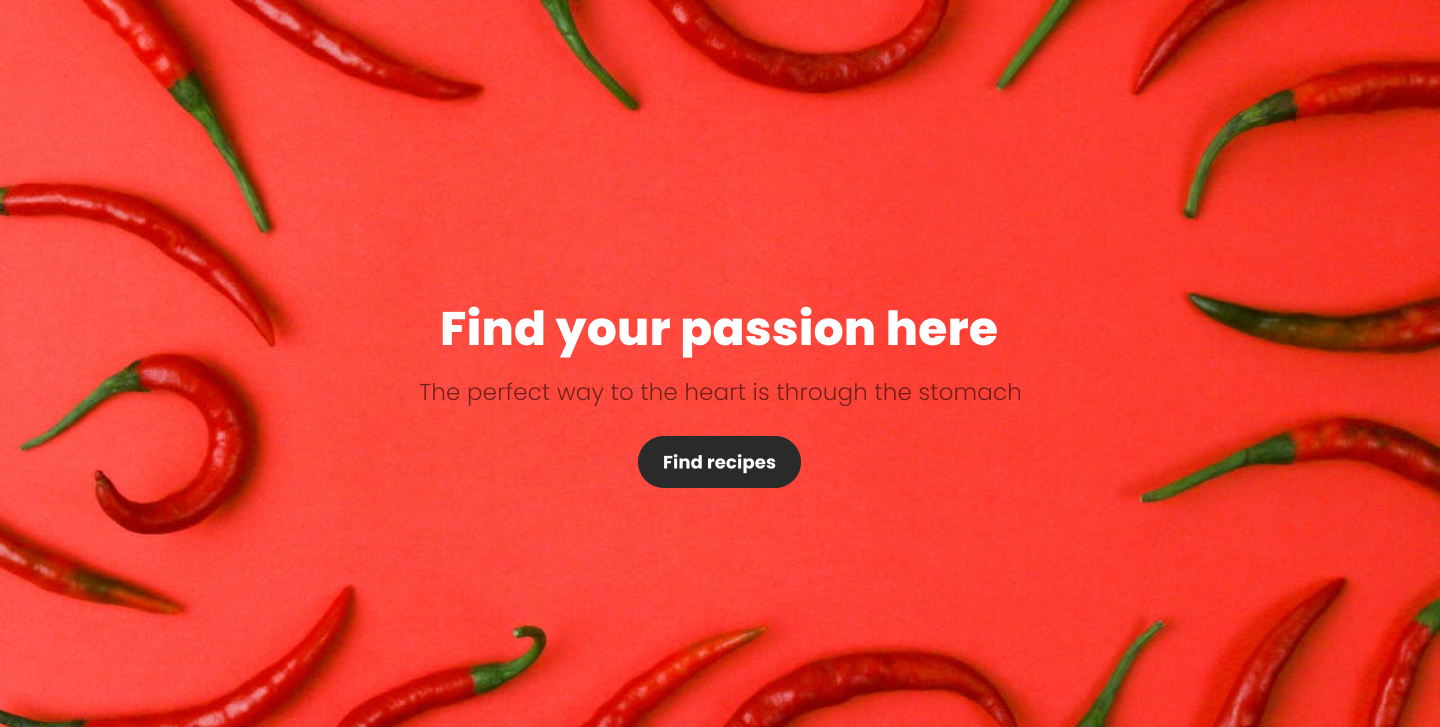
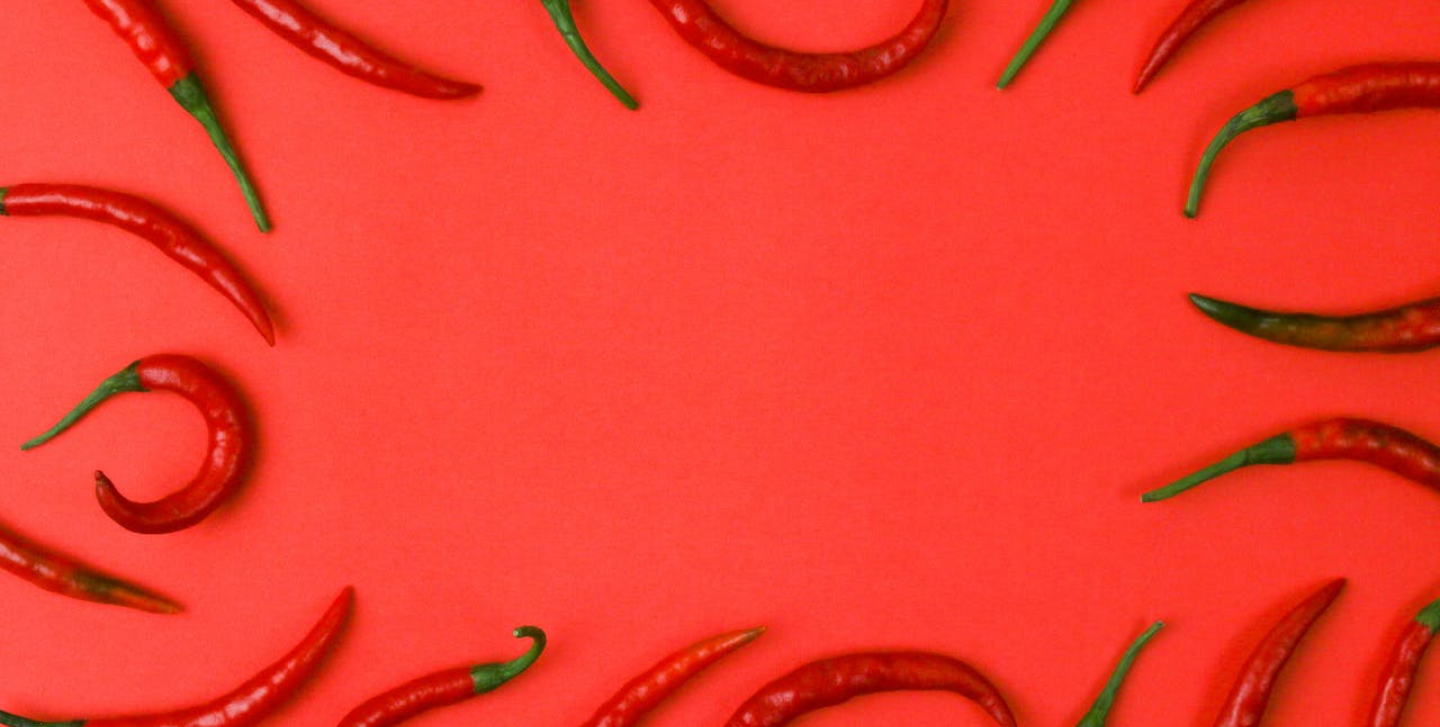
Added hero section to app component

Changed region(s): [[0.2812, 0.4237, 0.6875, 0.4842], [0.2812, 0.5144, 0.7188, 0.575], [0.4375, 0.575, 0.5625, 0.696]]

diff --git a/src/app/app.component.css b/src/app/app.component.css
@@ -67,7 +67,7 @@ header .my-container .contact-div {
 header .my-container .contact-div a {
   font-size: 18px;
   padding: 12px 35px;
-  border-radius: 10px;
+  border-radius: 32px;
   background-color: #ff6464;
   color: #f6f6f6;
   text-decoration: none;
@@ -75,5 +75,45 @@ header .my-container .contact-div a {
   transition: 0.3s ease all;
 }
 header .my-container .contact-div a:hover {
+  background-color: #2a2a2a;
+}
+
+.hero {
+  width: 100%;
+  height: 89vh;
+  margin-bottom: 250px;
+  background-image: url("../assets/images/hero.png");
+  background-position: center;
+  background-size: cover;
+  background-attachment: scroll;
+}
+.hero .hero-text {
+  position: absolute;
+  top: 55%;
+  left: 50%;
+  transform: translate(-50%, -50%);
+  text-align: center;
+}
+.hero .hero-text h2 {
+  color: #f6f6f6;
+  font-size: 47px;
+  font-weight: 800;
+}
+.hero .hero-text p {
+  font-weight: 300;
+  margin-top: 5px;
+  margin-bottom: 25px;
+}
+.hero .hero-text a {
+  font-size: 18px;
+  padding: 12px 35px;
+  border-radius: 32px;
+  background-color: #2a2a2a;
+  color: #f6f6f6;
+  text-decoration: none;
+  font-weight: 700;
+  transition: 0.3s ease all;
+}
+.hero .hero-text a:hover {
   background-color: #2a2a2a;
 }/*# sourceMappingURL=app.component.css.map */

diff --git a/src/app/app.component.scss b/src/app/app.component.scss
@@ -76,7 +76,7 @@ header {
       a {
         font-size: 18px;
         padding: 12px 35px;
-        border-radius: 10px;
+        border-radius: 32px;
         background-color: $red;
         color: $white;
         text-decoration: none;
@@ -85,6 +85,49 @@ header {
         &:hover {
           background-color: $black;
         }
+      }
+    }
+  }
+}
+
+.hero {
+  width: 100%;
+  height: 89vh;
+  margin-bottom: 250px;
+
+  background-image: url("../assets/images/hero.png");
+  background-position: center;
+  background-size: cover;
+  background-attachment: scroll;
+  .hero-text {
+    position: absolute;
+    top: 55%;
+    left: 50%;
+    transform: translate(-50%, -50%);
+    text-align: center;
+    h2 {
+      color: $white;
+      font-size: 47px;
+      font-weight: 800;
+    }
+
+    p {
+      font-weight: 300;
+      margin-top: 5px;
+      margin-bottom: 25px;
+    }
+
+    a {
+      font-size: 18px;
+      padding: 12px 35px;
+      border-radius: 32px;
+      background-color: $black;
+      color: $white;
+      text-decoration: none;
+      font-weight: 700;
+      transition: 0.3s ease all;
+      &:hover {
+        background-color: $black;
       }
     }
   }

diff --git a/src/app/app.component.html b/src/app/app.component.html
@@ -20,7 +20,7 @@
           <a href="">Shopping list</a>
         </li>
         <li>
-          <a href="">About</a>
+          <a href="">About us</a>
         </li>
       </ul>
     </nav>
@@ -29,3 +29,12 @@
     </div>
   </div>
 </header>
+<main>
+  <div class="hero">
+    <div class="hero-text">
+      <h2>Find your passion here</h2>
+      <p>The perfect way to the heart is through the stomach</p>
+      <a href="">Find recipes</a>
+    </div>
+  </div>
+</main>

diff --git a/src/styles.css b/src/styles.css
@@ -6,6 +6,10 @@
   font-size: 20px;
 }
 
+html {
+  scroll-behavior: smooth;
+}
+
 body {
   margin: 0;
   padding: 0;

diff --git a/src/styles.scss b/src/styles.scss
@@ -6,6 +6,10 @@
   font-size: 20px;
 }
 
+html {
+  scroll-behavior: smooth;
+}
+
 body {
   margin: 0;
   padding: 0;
